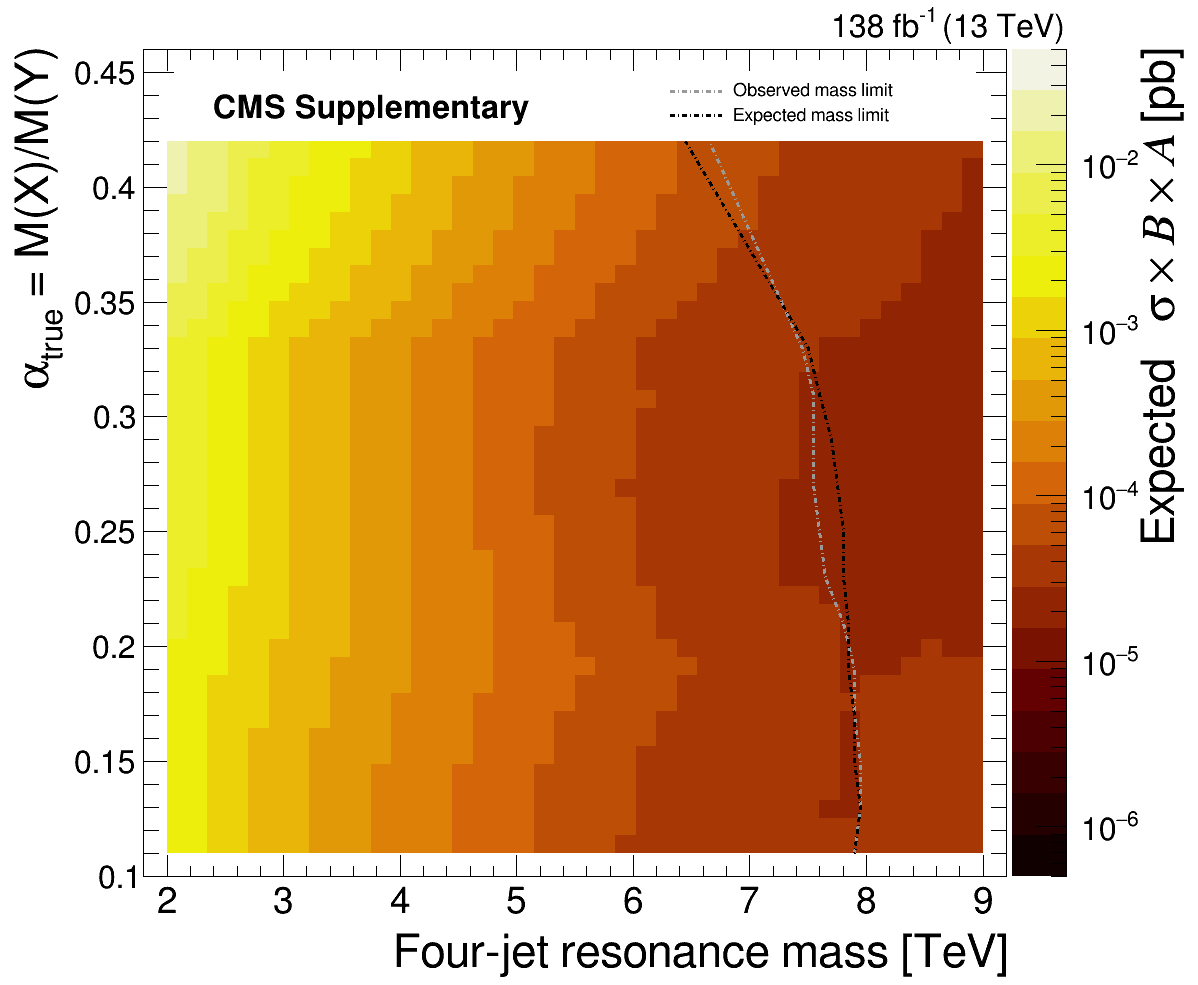
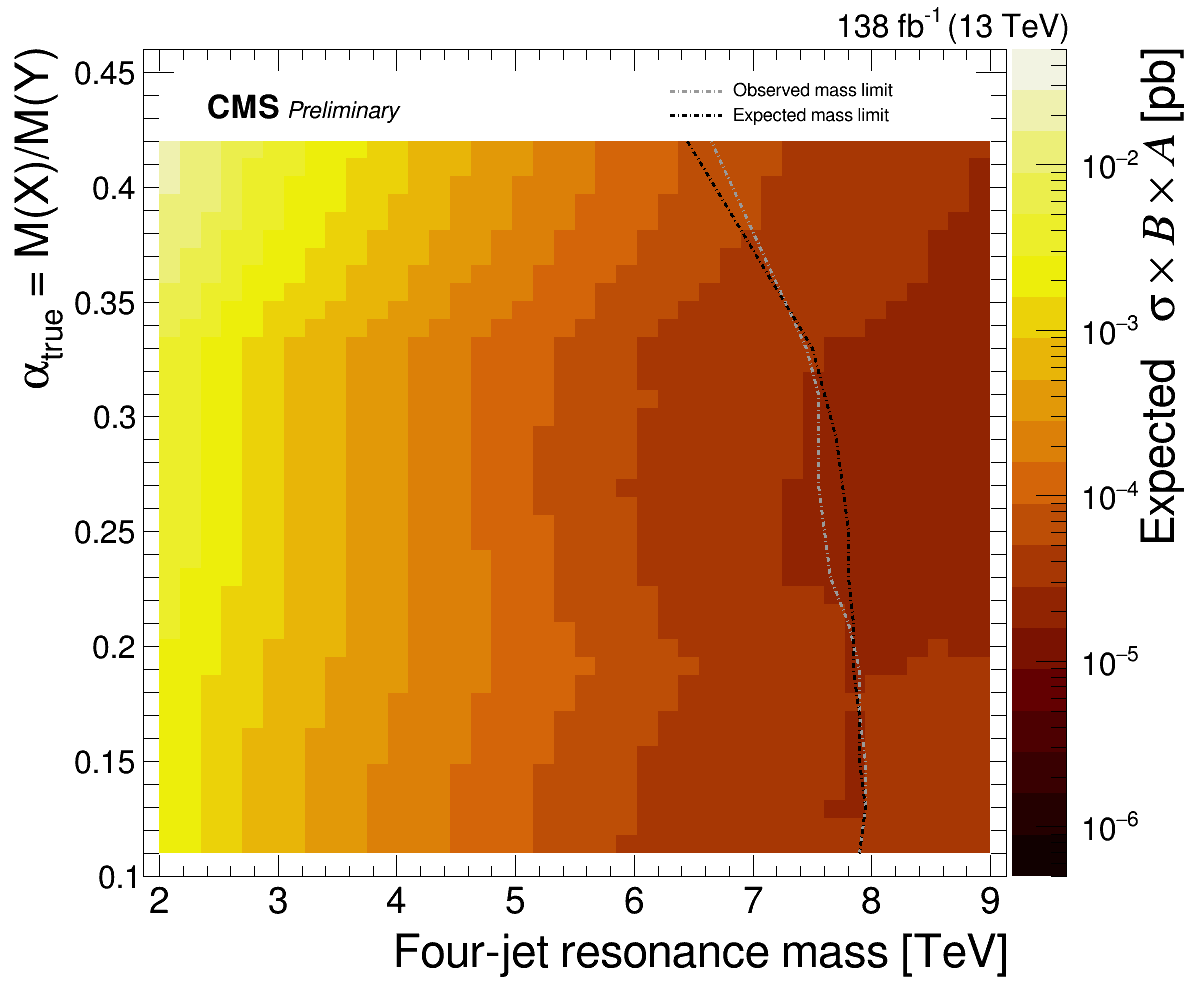
Add my new changes

diff --git a/Supplementary/2D_limits/Plot_2D_Limits_M4J_vs_alpha.C b/Supplementary/2D_limits/Plot_2D_Limits_M4J_vs_alpha.C
@@ -38,8 +38,8 @@ for(int alphap=11; alphap<=35; alphap=alphap+2)
 	sprintf(filename,"limits_freq_gg_pfdijet2017_alpha0p%d.root",alphap);
 	TFile *f = new TFile(filename,"READ");
 
-	TGraph *g_lim = (TGraph*)f->Get("obs_gg_pfdijet2017");
-	//TGraph *g_lim = (TGraph*)f->Get("exp_gg_pfdijet2017"); 
+	//TGraph *g_lim = (TGraph*)f->Get("obs_gg_pfdijet2017");
+	TGraph *g_lim = (TGraph*)f->Get("exp_gg_pfdijet2017"); 
 
 	for(int i=0; i<=70; i++) 
 	{
@@ -76,8 +76,8 @@ frame->GetYaxis()->SetTitleSize(0.05);
 frame->GetYaxis()->SetTitle("#alpha_{true} = M(X)/M(Y)");
 
 h_lim_M4J_vs_alpha->Draw("col same z");
-h_lim_M4J_vs_alpha->SetTitle(" ; Four-jet resonance mass [TeV]; #alpha_{true} = M(X)/M(Y); Observed #kern[0.1]{#sigma #times #bf{#it{#Beta}} #times #bf{#it{#Alpha}} [pb]}");
-//h_lim_M4J_vs_alpha->SetTitle(" ; Four-jet resonance mass [TeV]; #alpha_{true} = M(X)/M(Y); Expected #kern[0.1]{#sigma #times #bf{#it{#Beta}} #times #bf{#it{#Alpha}} [pb]}");
+//h_lim_M4J_vs_alpha->SetTitle(" ; Four-jet resonance mass [TeV]; #alpha_{true} = M(X)/M(Y); Observed #kern[0.1]{#sigma #times #bf{#it{#Beta}} #times #bf{#it{#Alpha}} [pb]}");
+h_lim_M4J_vs_alpha->SetTitle(" ; Four-jet resonance mass [TeV]; #alpha_{true} = M(X)/M(Y); Expected #kern[0.1]{#sigma #times #bf{#it{#Beta}} #times #bf{#it{#Alpha}} [pb]}");
 gPad->Update();
 h_lim_M4J_vs_alpha->GetZaxis()->SetRangeUser(0.0000005,0.05); //0.0000005,0.05
 h_lim_M4J_vs_alpha->GetZaxis()->SetTitleOffset(1.);
@@ -148,8 +148,8 @@ TLatex *cms = new TLatex();
 cms->SetTextAlign(11);
 cms->SetTextSize(0.035);
 cms->SetTextFont(62);
-//cms->DrawLatex(2400, 0.43, "CMS #scale[0.7]{#it{#bf{Preliminary}}}");
-cms->DrawLatex(2400, 0.43, "CMS Supplementary");
+cms->DrawLatex(2400, 0.43, "CMS #scale[0.7]{#it{#bf{Preliminary}}}");
+//cms->DrawLatex(2400, 0.43, "CMS #scale[0.7]{#it{#bf{Supplementary}}}");
 
 TLegend *l = new TLegend(0.55,0.87,0.8,0.92,"");
 l->SetBorderSize(0);
@@ -158,12 +158,12 @@ l->AddEntry(g_excl_obs,"#bf{Observed mass limit}","L");
 l->AddEntry(g_excl_exp,"#bf{Expected mass limit}","L");
 l->Draw();
 
-c->SaveAs("2D_obs_limits.C");
-c->SaveAs("2D_obs_limits.png");
-c->SaveAs("2D_obs_limits.pdf");
+//c->SaveAs("2D_obs_limits.C");
+//c->SaveAs("2D_obs_limits.png");
+//c->SaveAs("2D_obs_limits.pdf");
 
-//c->SaveAs("2D_exp_limits.C");
-//c->SaveAs("2D_exp_limits.png");
-//c->SaveAs("2D_exp_limits.pdf");
+c->SaveAs("2D_exp_limits.C");
+c->SaveAs("2D_exp_limits.png");
+c->SaveAs("2D_exp_limits.pdf");
 
 }

diff --git a/Supplementary/2D_limits/2D_exp_limits.C b/Supplementary/2D_limits/2D_exp_limits.C
@@ -1,6 +1,6 @@
 {
 //=========Macro generated from canvas: c/c
-//=========  (Tue Feb  1 17:51:40 2022) by ROOT version 6.24/06
+//=========  (Tue Feb  1 18:34:40 2022) by ROOT version 6.24/06
    TCanvas *c = new TCanvas("c", "c",130,71,1200,1200);
    gStyle->SetOptStat(0);
    c->Range(566.6667,0.05285714,10844.44,0.4814286);
@@ -3437,7 +3437,7 @@
    tex->SetTextSize(0.035);
    tex->SetLineWidth(2);
    tex->Draw();
-      tex = new TLatex(2400,0.43,"CMS Supplementary");
+      tex = new TLatex(2400,0.43,"CMS #scale[0.7]{#it{#bf{Preliminary}}}");
    tex->SetTextSize(0.035);
    tex->SetLineWidth(2);
    tex->Draw();

diff --git a/Supplementary/2D_limits/2D_obs_limits.C b/Supplementary/2D_limits/2D_obs_limits.C
@@ -1,6 +1,6 @@
 {
 //=========Macro generated from canvas: c/c
-//=========  (Tue Feb  1 17:54:09 2022) by ROOT version 6.24/06
+//=========  (Tue Feb  1 18:31:52 2022) by ROOT version 6.24/06
    TCanvas *c = new TCanvas("c", "c",130,71,1200,1200);
    gStyle->SetOptStat(0);
    c->Range(566.6667,0.05285714,10844.44,0.4814286);
@@ -3437,7 +3437,7 @@
    tex->SetTextSize(0.035);
    tex->SetLineWidth(2);
    tex->Draw();
-      tex = new TLatex(2400,0.43,"CMS Supplementary");
+      tex = new TLatex(2400,0.43,"CMS #scale[0.7]{#it{#bf{Preliminary}}}");
    tex->SetTextSize(0.035);
    tex->SetLineWidth(2);
    tex->Draw();
